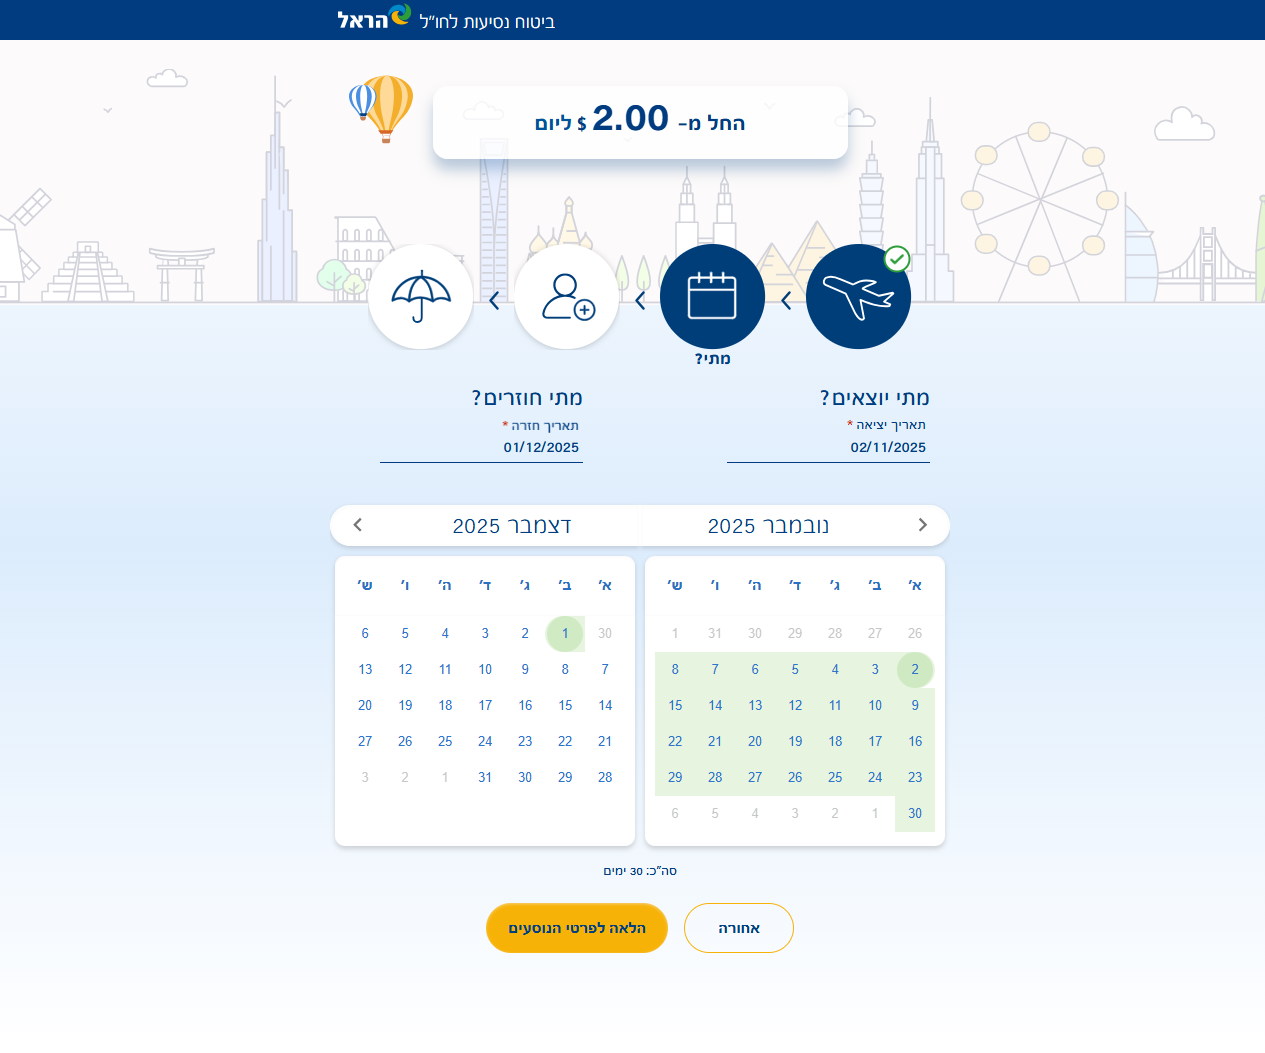
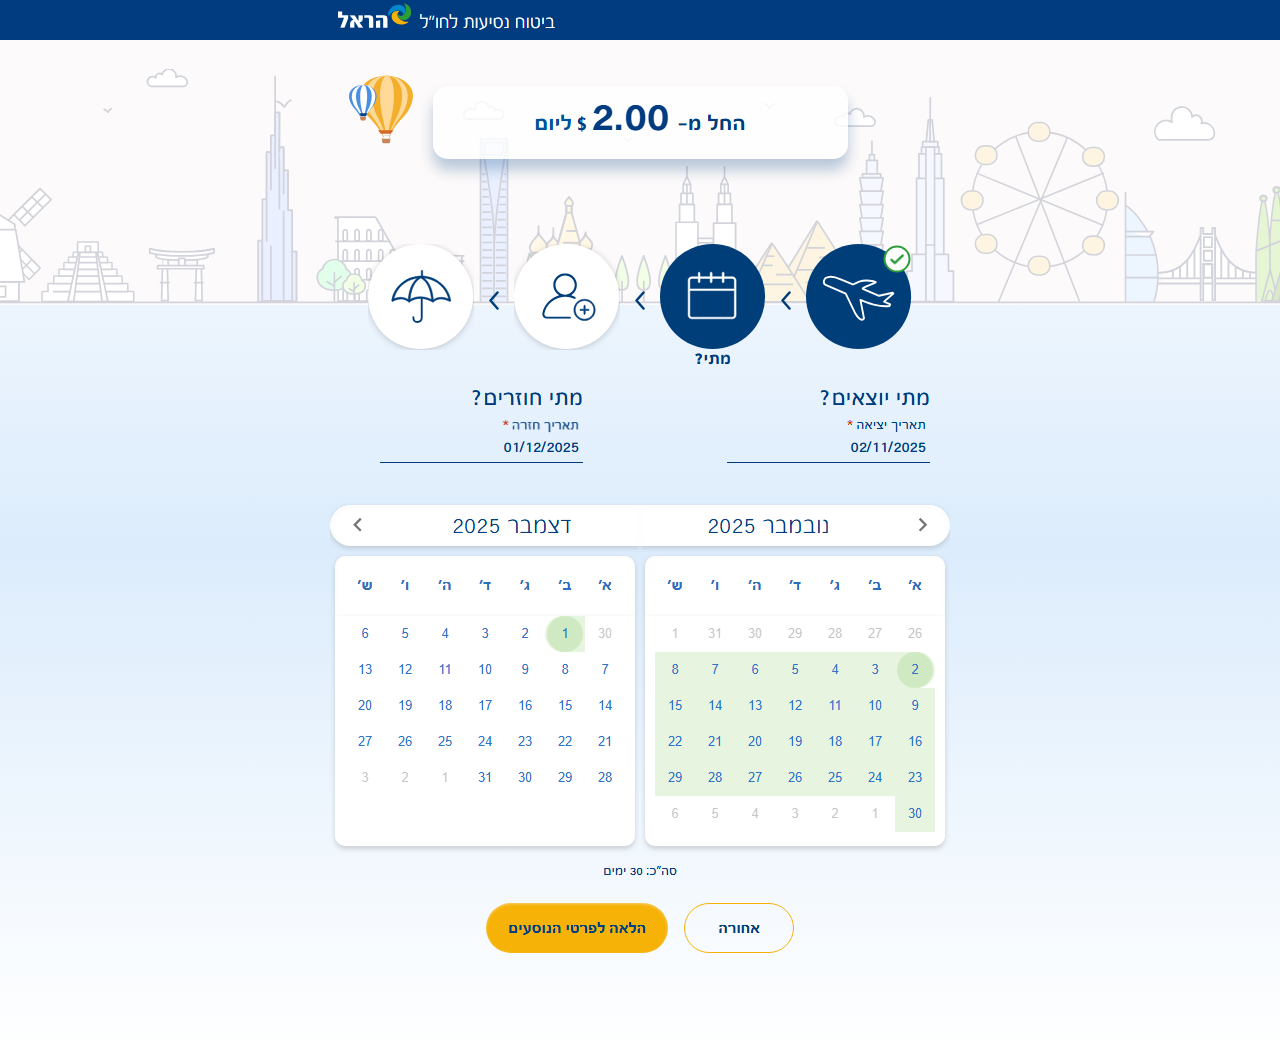
Update travel.spec and screenshot

diff --git a/tests/travel.spec.js b/tests/travel.spec.js
@@ -3,53 +3,52 @@ import { test, expect } from "@playwright/test";
 test("interview task – dynamic date selection", async ({ page }) => {
   page.setDefaultTimeout(25000);
 
-  // 1⃣ Открыть сайт
+  
   await page.goto("https://digital.harel-group.co.il/travel-policy", { waitUntil: "domcontentloaded" });
 
-  // 2⃣ Нажать на “לרכישה בפעם הראשונה”
+ 
   const cta = page.locator('[data-hrl-bo="purchase-for-new-customer"]').first();
   await expect(cta).toBeVisible();
   await cta.click();
 
-  // 3⃣ Выбрать материк (пример — Канада)
+  
   await page.click('div[data-hrl-bo="canada"]');
   await page.click('button[data-hrl-bo="wizard-next-button"]');
 
-  // 4⃣ Динамически выбрать даты (сегодня + 29 → итого 30 дней)
+ 
   const today = new Date();
   const start = today.toISOString().slice(0, 10);
   const end = new Date(today);
   end.setDate(end.getDate() + 29);
   const endDate = end.toISOString().slice(0, 10);
 
-  console.log(`📅 Дата начала: ${start}, Дата окончания: ${endDate}`);
+  console.log(` Start date: ${start}, End date: ${endDate}`);
 
-  // Клик по дате начала
   await page.click(`//button[@type="button" and @data-hrl-bo="${start}" and @aria-pressed="false"]`);
 
-  // Клик по дате окончания
+ 
   await page.click(`//button[@type="button" and @data-hrl-bo="${endDate}" and @aria-pressed="false"]`);
 
-  // 5⃣ Проверка “סה"כ: 30 ימים”
+ 
   const totalDays = page.locator('[data-hrl-bo="total-days"]');
   await expect(totalDays).toBeVisible();
   await expect(totalDays).toContainText("30");
 
-  // 6⃣ Проверить, что выбраны 2 даты (подсвечены)
+ 
   const selected = await page.locator('button[aria-pressed="true"]').count();
-  console.log(`📆 Подсвечено дат: ${selected}`);
+  console.log(`dates: ${selected}`);
   expect(selected).toBeGreaterThanOrEqual(2);
 
-  // 7⃣ Скриншот после выбора дат
+  
   await page.screenshot({ path: "screenshots/dates-selected.png", fullPage: true });
 
-  // 8⃣ Нажать “далее” к экрану пассажиров
+
   await page.click('button[data-hrl-bo="wizard-next-button"]');
 
-  // 9⃣ Проверить, что открылось поле “Имя”
+ 
   const firstName = page.locator('//input[@data-hrl-bo="firstNameHebrew_0_input"]');
   await expect(firstName).toBeVisible();
   await expect(firstName).toBeEditable();
 
-  console.log("✅ Тест успешно завершён – переход к экрану пассажиров");
+  console.log("Test completeds successfully");
 });
